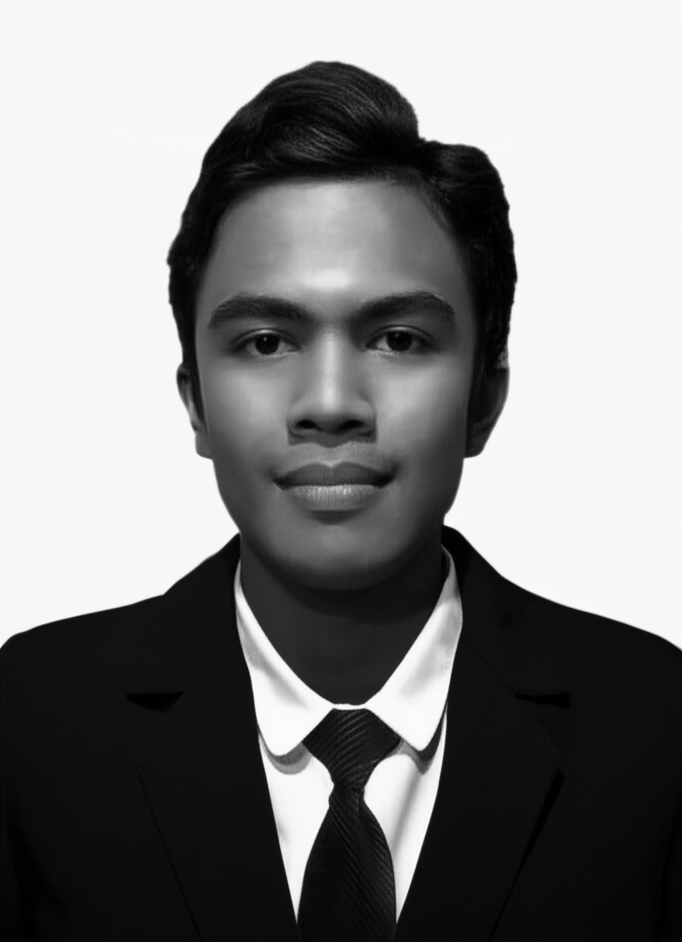
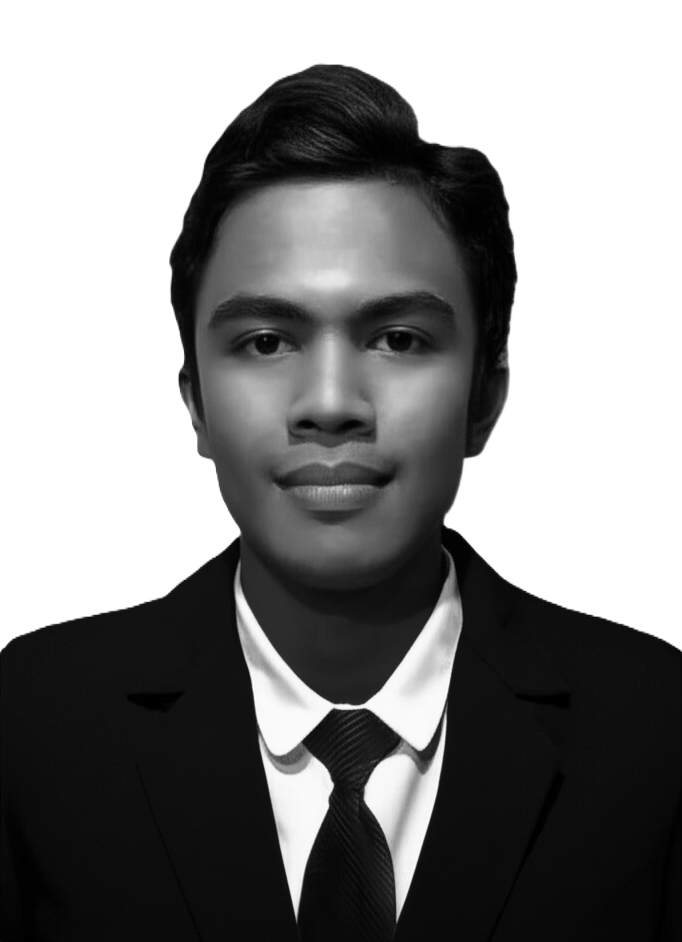
feat: Complete About page & Project structure, refine Contact, style About pages
- **HTML Updates:**
    - Completed About2 content.
    - Established semantic structure for the project.
    - Modified Contact page content.
- **CSS Styling:**
    - Applied styles for About1 and About2 pages.
    - Implemented background.
    - Applied background transition.
- Added additional images.

diff --git a/index.html b/index.html
@@ -29,6 +29,7 @@
       href="https://fonts.googleapis.com/css2?family=Lato:ital,wght@0,100;0,300;0,400;0,700;0,900;1,100;1,300;1,400;1,700;1,900&display=swap"
       rel="stylesheet"
     />
+
   </head>
   <body>
     <header id="header">
@@ -45,8 +46,7 @@
     <main>
       <section id="Home">
         <h1>
-          Hello, <br />
-          My name is Rachmandika
+          Hello, My name is <div class="Rachmandika">Rachmandika</div>
         </h1>
         <img
           src="image/portraitpage.png"
@@ -77,7 +77,7 @@
           In short, I can describe myself as a "cultured geek". Does it sounds cocky? Me too, you're not alone.
         </p>
         <img
-          src="image/selfpotrait_bnw.png"
+          src="image/selfpotrait_bnw2.png"
           alt="About Me"
           class="portrait-about-page"
         />
@@ -85,24 +85,49 @@
       <section id="About2">
           <h2>My Experiences.. So far.</h2>
           <p>
-           I'll start with my education, which is quite bland actually as I took Communication Science as my major
-           Which if you currently do the same, trust me, at the end of your study you will raise a question about
-           "why am I study a thing that we can learn it on a Public Relations Short course?". But don't listen to me,
-           Trust your self. <br/>
-          <br/>
-          But thankfully life is not determined by what have you study, but it's determined by your "taste"
-          So here's the list of my experiences and what have I done sofar;
-          <ul>
-            <li>Lorem ipsum dolor sit amet consectetur adipisicing elit. Deleniti atque quidem consectetur expedita laborum. Hic odit suscipit natus vitae quaerat, neque sint quia autem ab, atque ex necessitatibus voluptas amet?</li>
-            <li>Lorem ipsum dolor sit, amet consectetur adipisicing elit. Optio magni delectus magnam tempore eum, sequi deserunt culpa dolorum soluta repudiandae quas consequatur saepe nemo! Ducimus et nostrum fuga veniam sed!</li>
-            <li>Lorem ipsum dolor sit amet consectetur adipisicing elit. Quasi, doloremque? Voluptatibus, doloremque! Quasi, doloremque? Voluptatibus, doloremque!</li>
-          </ul>
+            I'll start with my education, which is quite bland actually as I took Communication Science as my major.
+            Which if you currently do the same, trust me, at the end of your study you will raise a question about
+            "why am I study a thing that we can learn it on a Public Relations Short course?". But don't listen to me,
+            Trust your self.
           </p>
+          <p>
+            But thankfully life is not determined by what have you study, but it's determined by your "taste".
+            So here's the list of my experiences and what have I done so far:
+          </p>
+          <ul>
+            <li>
+              I started my career from a small trucking service startup in Jakarta as the Customer Service Specialist
+              who manage the client's booking for the trucking and also to manage the "supply and demand" of the service
+              based on our truck availability. I stayed here for around 2 years.
+            </li>
+            <li>
+              My Previous experiences might not yet touch anything about internet and technology, 
+              but those previous 2 years helped me a lot to learn much about the communication technique and strategy, 
+              in which it lands me to my next path of the career which I'm still currently on right now. 
+              From the last 2 years I join the Global Web Hosting Company who has all around the worlds users, 
+              I joined as the Technical Specialist who my daily task mainly to help and troubleshoots client's daily issue with their hosting; 
+              from Domain management, Website Deployment and migration issue, up to talk about the billings and renewals plan of their hosting.
+            </li>
+          </ul>
       </section>
 
       <section id="Projects">
         <h2>Projects</h2>
-        <p>lot sure yet, it's still coming soon</p>
+        <ul>
+          <li>
+            <img src="image/placeholder-image-square.jpg" alt="Project1">
+            <p>Project 1 Description</p>
+          </li>
+          <li>
+            <img src="image/placeholder-image-square.jpg" alt="Project2">
+            <p>Project 2 Description</p>
+          </li>
+          <li>
+            <img src="image/placeholder-image-square.jpg" alt="Project3">
+            <p>Project 3 Description</p>
+          </li>
+        </ul>
+        
       </section>
 
       <section id="Contact">

diff --git a/style.css b/style.css
@@ -53,6 +53,7 @@ body {
   color: #ff9800;
 }
 
+
 /*  Home section */
 #Home {
   scroll-snap-align: start;
@@ -60,8 +61,8 @@ body {
   position: relative;
   min-height: 100vh;
   display: flex;
-  flex-direction: column;
-  align-items: flex-start;
+  flex-direction: row;
+  align-items: center;
   justify-content: center;
   color: #fff;
   text-align: center;
@@ -81,6 +82,18 @@ body {
   transform: scale(1.08); /* Zoom in the background image */
 }
 
+#Home::after {
+  content: "";
+  position: absolute;
+  left: 0;
+  right: 0;
+  bottom: 0;
+  height: 80px;
+  background: linear-gradient(to bottom, transparent, #222 90%);
+  z-index: 2;
+  pointer-events: none;
+}
+
 #Home > * {
   position: relative;
   z-index: 1;
@@ -92,8 +105,13 @@ body {
   font-weight: 400;
   font-style: normal;
   margin-bottom: 1.2rem;
+  margin-right: 1.5rem;
   letter-spacing: 1px;
   text-align: left;
+}
+.Rachmandika {
+  color: #ff9800;
+  font-weight: 700;
 }
 
 .portrait-home-page {
@@ -127,15 +145,80 @@ body {
   scroll-snap-align: start;
   scroll-snap-stop: always;
   position: relative;
+  overflow: hidden;
   min-height: 100vh;
   display: flex;
-  flex-direction: column;
-  align-items: center;
-  justify-content: center;
-  color: #000000;
-  text-align: center;
+  flex-direction: row;         
+  align-items: center;        
+  justify-content: center;    
+  color: #ffffff;
+  text-align: left;         
   padding: 3rem 1rem;
+  gap: 2.5rem;
 }
+
+#About h2 {
+  font-size: 4rem;
+  font-family: "Bebas Neue", sans-serif;
+  font-weight: 400;
+  font-style: normal;
+  margin-bottom: 1.2rem;
+  letter-spacing: 1px;
+  text-align: left;
+  color: #ff9800;
+}
+
+#About p {
+  font-size: 1.1rem;
+  font-family: lato, sans-serif;
+  font-weight: 400;
+  font-style: normal;
+  margin-top: 1.2rem;
+  color: #f3f3f3;
+  max-width: 420px;
+  text-align: justify;
+  text-shadow: 0 1px 4px rgba(0, 0, 0, 0.12);
+}
+
+#About img.portrait-about-page {
+  width: auto;                 
+  height: auto;                
+  max-width: 280px;            
+  max-height: 60vh;            
+  object-fit: cover;
+  margin-bottom: 0;            
+  margin-right: 2.5rem;        
+  box-shadow: 0 2px 12px rgba(0,0,0,0.18); 
+}
+
+#About::before {
+  content: "";
+  position: absolute;
+  inset: 0;
+  background: linear-gradient(rgba(0,0,0,0.6), rgba(0,0,0,0.6)),
+    url("image/background_about1.png") center center/cover no-repeat;
+  filter: blur(6px);
+  z-index: 0;
+  transform: scale(1.08); /* Zoom in the background image */
+}
+
+#About::after {
+  content: "";
+  position: absolute;
+  left: 0;
+  right: 0;
+  top: 0;
+  height: 80px;
+  background: linear-gradient(to top, transparent, #222 90%);
+  z-index: 2;
+  pointer-events: none;
+}
+
+#About > * {
+  position: relative;
+  z-index: 1;
+}
+
 /* About2 section */
 #About2 {
   scroll-snap-align: start;
